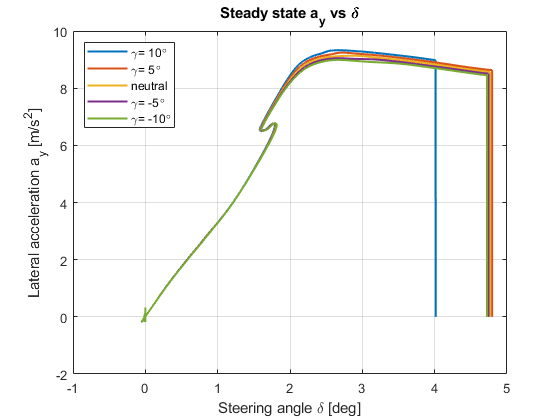
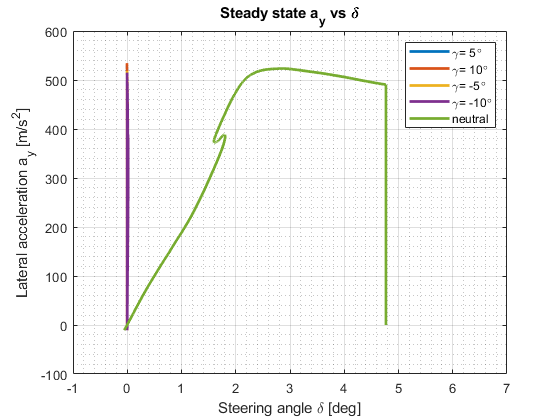
updated graphs for Nikhil

diff --git a/DATA/Varun/load_data.m b/DATA/Varun/load_data.m
@@ -101,8 +101,9 @@ k = 11;   % zero camber angles
 filename = ['csv\step\step',num2str(0),'.csv'];
 step_data_r{k} = importdata(filename);
 plot(step_data_r{k}(:,6),step_data_r{k}(:,3),'LineWidth',2);
-lgd = legend('-1 deg','-5 deg','-10 deg','1 deg','5 deg','10 deg','0 deg');
-title(lgd,'Camber Angles');
+%lgd = legend('-1 deg','-5 deg','-10 deg','1 deg','5 deg','10 deg','0 deg');
+%title(lgd,'Camber Angles');
+legend("\gamma= -1\circ","\gamma= -5\circ","\gamma= -10\circ","\gamma= 1\circ","\gamma= 5\circ","\gamma= 10\circ", "neutral","Location","northeast");
 xlabel('Time t [s]');
 ylabel('Yaw rate r [rad/s]');
 title('Step Response: r vs t');
@@ -136,8 +137,9 @@ k=11;   % zero camber angles
 filename = ['csv\step\step',num2str(0),'.csv'];
 step_data_r{k} = importdata(filename);
 plot(step_data_r{k}(:,6),step_data_r{k}(:,4),'LineWidth',2);
-lgd = legend('-1 deg','-5 deg','-10 deg','1 deg','5 deg','10 deg','0 deg');
-title(lgd,'Camber Angles')
+% lgd = legend('-1 deg','-5 deg','-10 deg','1 deg','5 deg','10 deg','0 deg');
+% title(lgd,'Camber Angles')
+legend("\gamma= -1\circ","\gamma= -5\circ","\gamma= -10\circ","\gamma= 1\circ","\gamma= 5\circ","\gamma= 10\circ", "neutral","Location","northeast");
 xlabel('Time t [s]');
 ylabel('Lateral acceleration a_y[m/s^2]');
 title('Step Response: a_y vs t');
@@ -171,8 +173,9 @@ k=11;   % zero camber angles
 filename = ['csv\step\step',num2str(0),'.csv'];
 step_data_r{k} = importdata(filename);
 plot(step_data_r{k}(:,6),step_data_r{k}(:,2)*180/pi,'LineWidth',2);
-lgd = legend('-1 deg','-5 deg','-10 deg','1 deg','5 deg','10 deg','0 deg','Location','Southeast');
-title(lgd,'Camber Angles')
+% lgd = legend('-1 deg','-5 deg','-10 deg','1 deg','5 deg','10 deg','0 deg','Location','Southeast');
+% title(lgd,'Camber Angles')
+legend("\gamma= -1\circ","\gamma= -5\circ","\gamma= -10\circ","\gamma= 1\circ","\gamma= 5\circ","\gamma= 10\circ", "neutral","Location","Southeast");
 xlabel('Time t [s]');
 ylabel('Side slip angle \alpha [deg]');
 title('Step Response: \alpha vs t');
@@ -202,8 +205,9 @@ for i = [12,16,21]    % negative camber angles
     hold on;
     plot(sine_data_r{i}(:,6),sine_data_r{i}(:,2),'LineWidth',2);
 end
-lgd = legend('-1 deg','-5 deg','-10 deg','1 deg','5 deg','10 deg','0 deg');
-title(lgd,'Camber Angles')
+% lgd = legend('-1 deg','-5 deg','-10 deg','1 deg','5 deg','10 deg','0 deg');
+% title(lgd,'Camber Angles')
+legend("\gamma= -1\circ","\gamma= -5\circ","\gamma= -10\circ","\gamma= 1\circ","\gamma= 5\circ","\gamma= 10\circ", "neutral","Location","Southeast");
 xlabel('Time t [s]');
 ylabel('Yaw velocity [rad/s]');
 title('Sine Response: Yaw velocity vs t');

diff --git a/DATA/Nikhil/Circle_Eight_Data/SSA_vs_SWA/plot_ssa_swa.m b/DATA/Nikhil/Circle_Eight_Data/SSA_vs_SWA/plot_ssa_swa.m
@@ -4,20 +4,20 @@ clear all;
 load("rad_ay.mat");
 figure(1);
 
-plot(rad_neu*180/pi, ay_neu);
+plot(ay_neu, rad_neu*180/pi,'LineWidth',2);
 hold on;
-plot(rad_5*180/pi, ay_5);
-plot(rad_10*180/pi, ay_10);
-plot(rad_neg5*180/pi, ay_neg5);
-plot(rad_neg10*180/pi, ay_neg10);
+plot(ay_5, rad_5*180/pi,'LineWidth',2);
+plot(ay_10, rad_10*180/pi,'LineWidth',2);
+plot(ay_neg5, rad_neg5*180/pi,'LineWidth',2);
+plot(ay_neg10, rad_neg10*180/pi,'LineWidth',2);
 hold off;
 
-xlabel('swa \delta [rad]');
-ylabel('Lateral Acceleration a_y [m/s^2]');
+xlabel('Lateral Acceleration a_y [m/s^2]');
+ylabel('Steering angle \delta [rad]');
 title("Steady State");
 legend("Neutral","\gamma=5 deg","\gamma=10 deg","\gamma=-5 deg","\gamma=-10 deg","Location","northeast");
 grid on;
-axis([-0.6 1.6 -2 10]);
+axis([-2 12 -0.5 1.5]);
 
 
 %%
@@ -78,17 +78,18 @@ legend('\gamma= 10\circ','\gamma= 5\circ','neutral','\gamma= -5\circ','\gamma= -
 
 %%
 figure(4);
-plot(ay_10(700:end), rad_10(700:end)*180/pi,'LineWidth',1.5);
+plot(rad_5(700:end), ay_5(700:end)*180/pi,'LineWidth',2);
 hold on;
-plot(ay_5(700:end), rad_5(700:end)*180/pi,'LineWidth',1.5);
-plot(ay_neu(700:end), rad_neu(700:end)*180/pi,'LineWidth',1.5);
-plot(ay_neg5(700:end), rad_neg5(700:end)*180/pi,'LineWidth',1.5);
-plot(ay_neg10(700:end), rad_neg10(700:end)*180/pi,'LineWidth',1.5);
+plot(rad_10(700:end), ay_10(700:end)*180/pi,'LineWidth',2);
+plot(rad_neg5(700:end), ay_neg5(700:end)*180/pi,'LineWidth',2);
+plot(rad_neg10(700:end), ay_neg10(700:end)*180/pi,'LineWidth',2);
+plot(rad_neu(700:end), ay_neu(700:end)*180/pi,'LineWidth',2);
 hold off;
-ylabel("Steering angle \delta [deg]");
-xlabel("Lateral acceleration a_y [m/s^2]");
-title("Steady state \delta vs a_y");
+xlabel("Steering angle \delta [deg]");
+ylabel("Lateral acceleration a_y [m/s^2]");
+title("Steady state a_y vs \delta");
 grid on;
 grid minor;
-legend('\gamma= 10\circ','\gamma= 5\circ','neutral','\gamma= -5\circ','\gamma= -10\circ','Location','Southeast');
-
+legend('\gamma= 5\circ','\gamma= 10\circ','\gamma= -5\circ','\gamma= -10\circ','neutral','Location','Northeast');
+axis([-1 7 -100 600]);
+%%

diff --git a/DATA/Nikhil/Circle_Eight_Data/csv_file/plot_ssa_swa.m b/DATA/Nikhil/Circle_Eight_Data/csv_file/plot_ssa_swa.m
@@ -1,0 +1,49 @@
+data = cell(1,5);
+
+for i = 1:2
+    filename_pos = [num2str(5*i),'pos_camber.csv'];
+    filename_neg = [num2str(5*i),'neg_camber.csv'];
+    data{i} = importdata(filename_pos);
+    data{i+2} = importdata(filename_neg);
+end
+data{5} = importdata('Neutral_camber.csv');
+
+%% alpha_ay
+figure(10);
+for i = 1:size(data,2)   
+    hold on;
+    plot(data{i}.data(900:end-500,7), data{i}.data(900:end-500,3)*180/pi,'LineWidth',2);
+end
+title('Steady State: \beta vs a_y');
+xlabel("Lateral acceleration a_y [m/s^2]");
+ylabel("Side slip angle \beta [deg]");
+grid on;
+grid minor;
+legend('\gamma= 5\circ','\gamma= 10\circ','\gamma= -5\circ','\gamma= -10\circ','neutral','Location','Northwest');
+axis([-2 10 -0.2 1.2]);
+%% torque-ay
+figure(11);
+for i = 1:size(data,2)   
+    hold on;
+    plot(data{i}.data(800:end-500,7), data{i}.data(800:end-500,9)*180/pi,'LineWidth',2);
+end
+title('Steady State: \tau vs a_y');
+xlabel("Lateral acceleration a_y [m/s^2]");
+ylabel("Steering torque \tau [Nm]");
+grid on;
+grid minor;
+legend('\gamma= 5\circ','\gamma= 10\circ','\gamma= -5\circ','\gamma= -10\circ','neutral','Location','Southeast');
+
+%% ay-delta
+figure(12);
+for i = 1:size(data,2)   
+    hold on;
+    plot(data{i}.data(1000:end-600,7), data{i}.data(1000:end-600,8)*180/pi,'LineWidth',2);
+end
+grid on;
+grid minor;
+legend('\gamma= 5\circ','\gamma= 10\circ','\gamma= -5\circ','\gamma= -10\circ','neutral','Location','Southeast');
+ylabel("Steering angle \delta [deg]");
+xlabel("Lateral acceleration a_y [m/s^2]");
+title("Steady state \delta vs a_y");
+
